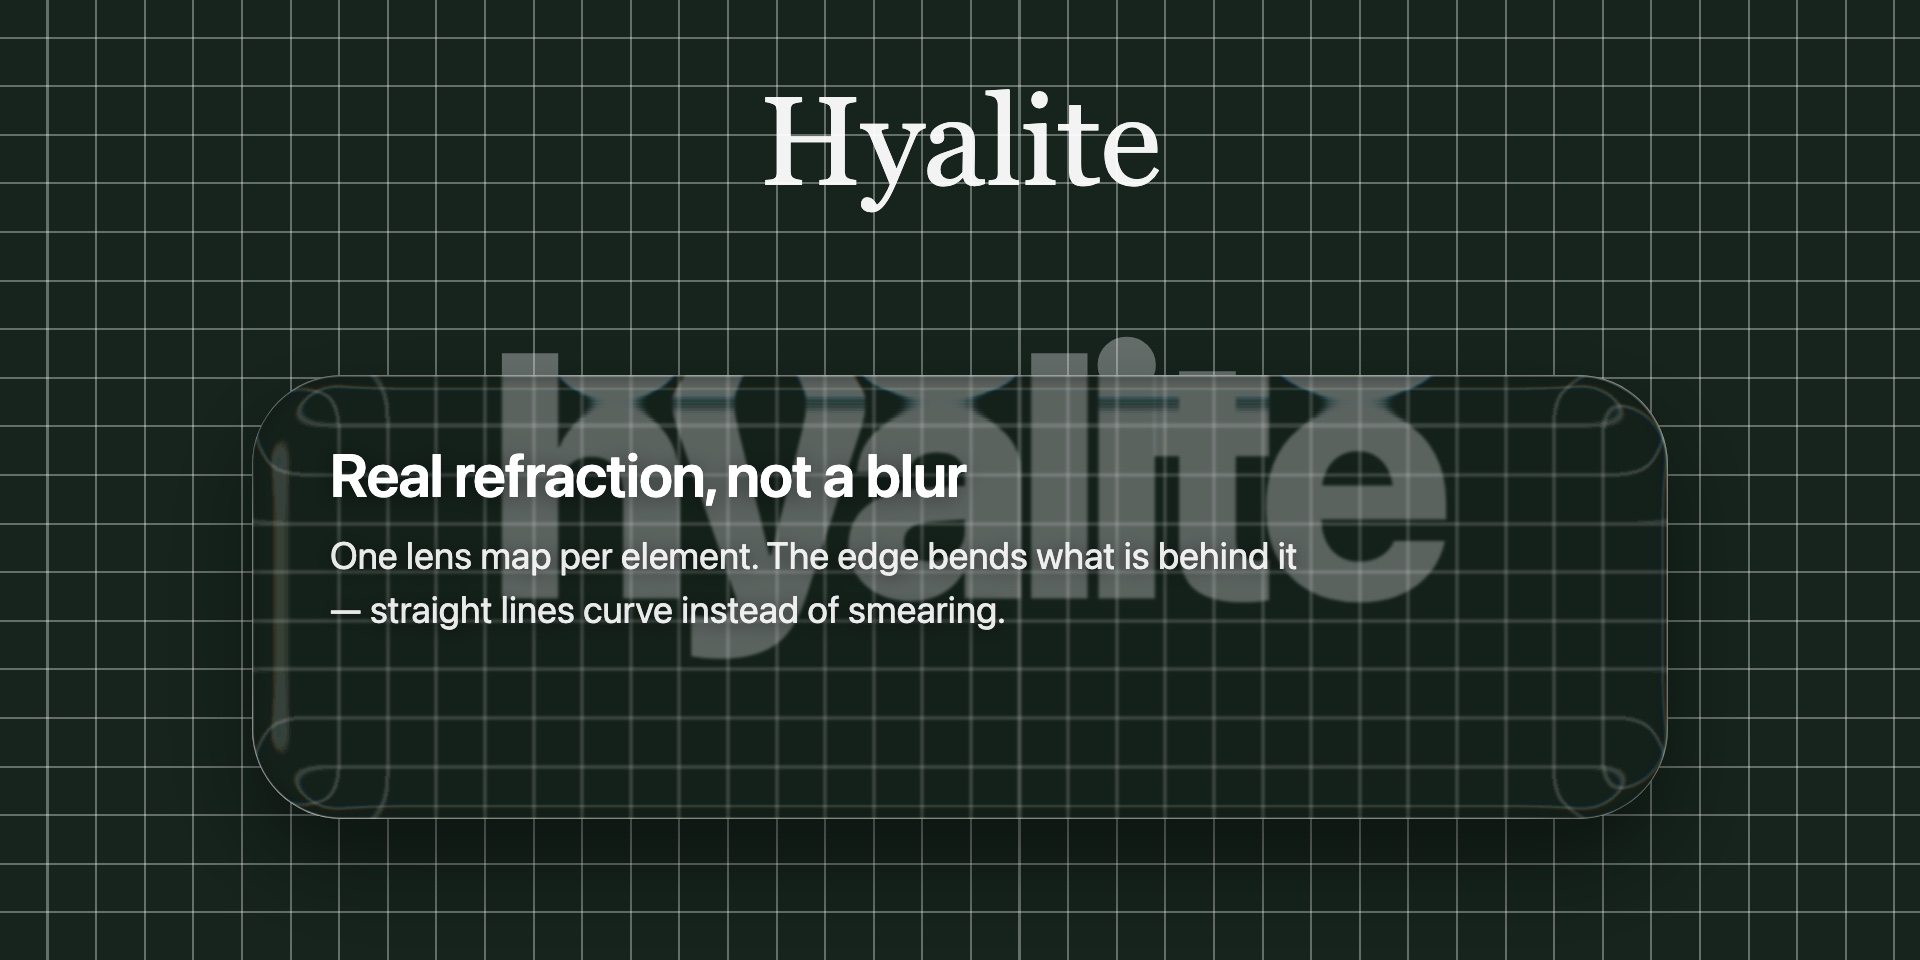
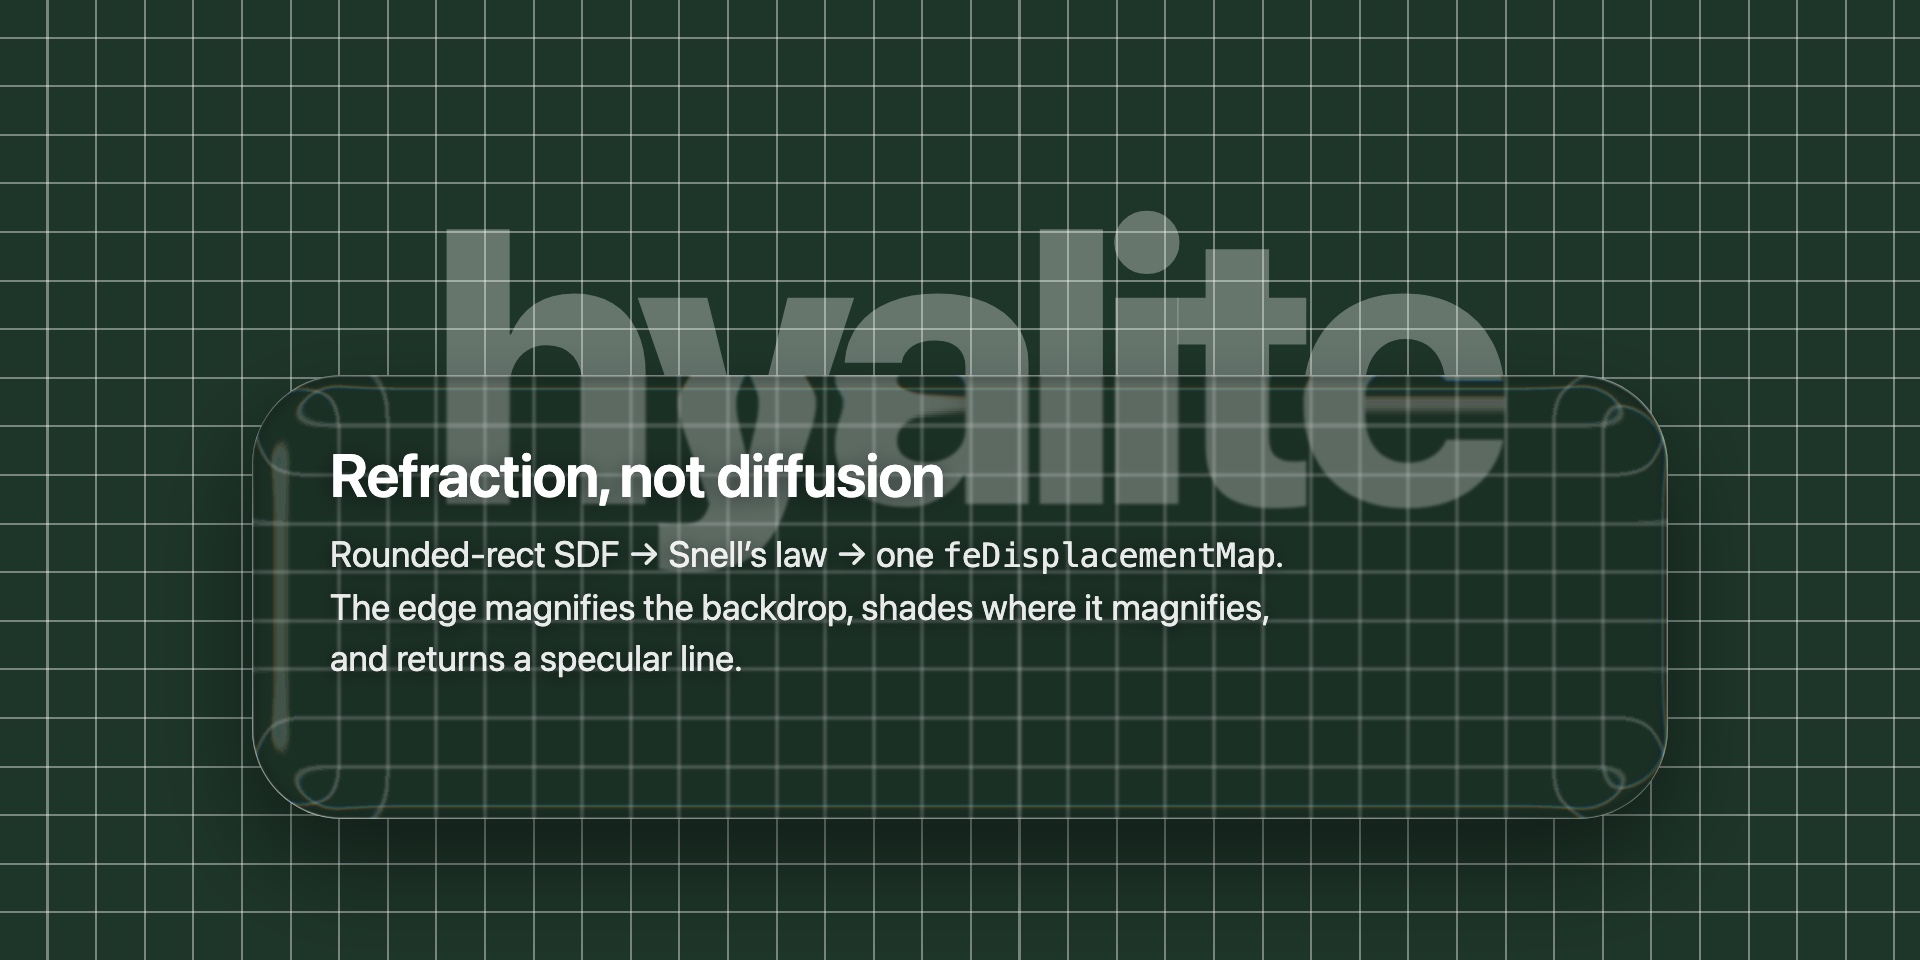
demo: narrow the playground HUD, one card figure, one list of pages
The HUD had no width of its own, so the button row stretched it across half the
viewport and over the A card. It is 236px now, with the labels on a fixed column
and the sliders flexible.

The README card is redrawn: the serif wordmark is gone, the big word sits so the
glass cuts it across the middle (straight above the edge, bent below), the ground
is lighter, and the copy names the actual chain instead of describing it. The old
playground shots are deleted rather than kept around, and the "Live:" line is folded
into the page list it was duplicating — which now also lists edge-lab.

Changed region(s): [[0.1562, 0.0938, 0.7812, 0.7188]]

diff --git a/demo/card.html b/demo/card.html
@@ -7,22 +7,19 @@
      at full width. Shot at deviceScaleFactor 1.5 → 1920×960, which stays under GitHub's 1 MB
      ceiling for a social image (2× lands around 1 MB and gets rejected). */
   html,body{margin:0;width:1280px;height:640px;overflow:hidden}
-  body{position:relative;background:#16241d;color:#f2efe6;
+  body{position:relative;background:#1e3529;color:#f2efe6;
        font:14px/1.45 system-ui,-apple-system,"Segoe UI",Roboto,sans-serif}
   /* A coarse grid: the whole point is that its straight lines come out *curved* behind the glass,
      so the ruling has to survive being looked at in a timeline thumbnail. */
   #grid{position:absolute;inset:0;
         background-image:
-          repeating-linear-gradient(0deg, transparent 0 31px, rgba(255,255,255,.34) 31px 32.4px),
-          repeating-linear-gradient(90deg, transparent 0 31px, rgba(255,255,255,.34) 31px 32.4px)}
-  .wordmark{position:absolute;left:0;right:0;top:52px;text-align:center;margin:0;
-            font:400 84px/1 Georgia,"Times New Roman",serif;letter-spacing:-.005em;
-            color:rgba(255,255,255,.95)}
+          repeating-linear-gradient(0deg, transparent 0 31px, rgba(255,255,255,.40) 31px 32.4px),
+          repeating-linear-gradient(90deg, transparent 0 31px, rgba(255,255,255,.40) 31px 32.4px)}
   /* The big word sits *behind* the glass on purpose: the part outside stays straight, the part
      under the lens bends. That contrast is the entire pitch, and it reads at thumbnail size. */
-  .behind{position:absolute;left:0;right:0;top:196px;text-align:center;margin:0;
-          font:800 232px/1 system-ui,-apple-system,"Helvetica Neue",sans-serif;
-          letter-spacing:-.06em;color:rgba(255,255,255,.34);white-space:nowrap}
+  .behind{position:absolute;left:0;right:0;top:108px;text-align:center;margin:0;
+          font:800 260px/1 system-ui,-apple-system,"Helvetica Neue",sans-serif;
+          letter-spacing:-.06em;color:rgba(255,255,255,.32);white-space:nowrap}
   .glass{position:absolute;left:50%;top:250px;transform:translateX(-50%);
          box-sizing:border-box;width:944px;height:296px;border-radius:60px;
          background:rgba(0,0,0,.10);
@@ -31,17 +28,17 @@
          box-shadow:var(--hyalite-edge,none), 0 30px 64px rgba(0,0,0,.42)}
   .glass h2{margin:0 0 14px;font:600 40px/1.1 system-ui,-apple-system,"Helvetica Neue",sans-serif;
             letter-spacing:-.02em;color:#fff;text-shadow:0 2px 14px rgba(0,0,0,.45)}
-  .glass p{margin:0;max-width:660px;font:400 25px/1.42 system-ui,-apple-system,sans-serif;
+  .glass p{margin:0;max-width:646px;font:400 24px/1.44 system-ui,-apple-system,sans-serif;
            color:rgba(255,255,255,.9);text-shadow:0 2px 12px rgba(0,0,0,.5)}
+  .glass code{font:500 .92em/1 ui-monospace,Menlo,monospace;letter-spacing:-.01em}
   .warn{position:absolute;left:16px;top:12px;font:600 20px/1.3 ui-monospace,monospace;color:#ffb4a2}
 </style></head>
 <body>
 <div id="grid"></div>
-<h1 class="wordmark">Hyalite</h1>
 <div class="behind">hyalite</div>
 <div class="glass" id="glass">
-  <h2>Real refraction, not a blur</h2>
-  <p>One lens map per element. The edge bends what is behind it — straight lines curve instead of smearing.</p>
+  <h2>Refraction, not diffusion</h2>
+  <p>Rounded-rect SDF → Snell’s law → one <code>feDisplacementMap</code>. The edge magnifies the backdrop, shades where it magnifies, and returns a specular line.</p>
 </div>
 <script>
 (() => {

diff --git a/demo/index.html b/demo/index.html
@@ -49,14 +49,15 @@
   .chip.on{background:rgba(255,255,255,.86);color:#1b1f1a}
 
   /* ── HUD ───────────────────────────────────────────────── */
-  .hud{position:absolute;z-index:20;left:18px;top:16px;display:flex;flex-direction:column;gap:7px;padding:12px 14px;border-radius:12px;
+  .hud{position:absolute;z-index:20;left:16px;top:14px;width:236px;display:flex;flex-direction:column;gap:6px;padding:11px 12px;border-radius:12px;
        background:rgba(0,0,0,.62);border:1px solid rgba(255,255,255,.12);font:12px/1.3 ui-monospace,Menlo,monospace;color:rgba(255,255,255,.85)}
   .hud h1{margin:0 0 2px;font:600 13px/1.2 system-ui,sans-serif}
-  .hud label{display:grid;grid-template-columns:82px 130px 52px;align-items:center;gap:8px}
-  .hud input[type=range]{width:130px;accent-color:#dfc174}
-  .hud .btns{display:flex;flex-wrap:wrap;gap:6px;margin-top:2px}
+  .hud label{display:grid;grid-template-columns:64px 1fr 40px;align-items:center;gap:7px}
+  .hud label>b{text-align:right;font-weight:400;opacity:.8}
+  .hud input[type=range]{width:100%;min-width:0;accent-color:#dfc174;margin:0}
+  .hud .btns{display:flex;flex-wrap:wrap;gap:5px;margin-top:4px}
   .hud a.btn{text-decoration:none;display:inline-block}
-  .hud button,.hud .file,.hud a.btn{font:inherit;padding:5px 9px;border-radius:8px;border:1px solid rgba(255,255,255,.18);background:rgba(255,255,255,.10);color:inherit;cursor:pointer}
+  .hud button,.hud .file,.hud a.btn{font:10.5px/1.2 ui-monospace,Menlo,monospace;white-space:nowrap;padding:4px 7px;border-radius:7px;border:1px solid rgba(255,255,255,.18);background:rgba(255,255,255,.10);color:inherit;cursor:pointer}
   .hud button:hover,.hud .file:hover,.hud a.btn:hover{background:rgba(255,255,255,.18)}
   .hud .hint{opacity:.6}
   .hud .warn{color:#ffb4a2}
@@ -66,8 +67,8 @@
     body{overflow:auto;height:auto;min-height:100vh}
     .big{position:static;font-size:22vw;margin:12px 0 4px}
     .slot{position:relative!important;left:auto!important;top:auto!important;width:min(380px,92vw);margin:18px auto 34px;cursor:default}
-    .hud{position:static;margin:12px}
-    .hud label{grid-template-columns:82px 1fr 52px}.hud input[type=range]{width:100%}
+    .hud{position:static;width:auto;margin:12px}
+    .hud label{grid-template-columns:64px 1fr 40px}.hud input[type=range]{width:100%}
   }
 </style></head>
 <body>

diff --git a/README.zh-CN.md b/README.zh-CN.md
@@ -6,15 +6,12 @@
 
 > 名字来自 hyalite，一种水一样透明、有玻璃光泽的蛋白石。念起来像 highlight，边上那道光正是这个引擎最讲究的东西。
 
-**在线：** [试验台](https://vii-cae.github.io/hyalite--liquid-glass/demo/index.html) · [回归用例](https://vii-cae.github.io/hyalite--liquid-glass/demo/cases.html) —— 用 Chromium 系浏览器打开。
-
 ![网格底上的一块玻璃卡片和一个大字：卡片外面的格线是直的，进到边缘就弯了。](demo/shots/card.jpg)
 
-<sub>就是出厂默认那一组，直接来自 <a href="demo/card.html"><code>demo/card.html</code></a>。</sub>
+三个页面都挂在 GitHub Pages 上 —— 用 Chromium 系浏览器打开，别的浏览器会退回普通模糊：
 
-- [`demo/index.html`](https://vii-cae.github.io/hyalite--liquid-glass/demo/index.html) 试验台：同一背景上普通模糊 vs hyalite，可拖、可交换，调倒角 / 厚度 / 模糊 / 色散 / 边缘光，切网格底或上传自己的照片。
-  ![网格底上的透镜：位移场在四角收成扇形，不折叠、不出棱。](demo/shots/playground-grid.jpg)
-
+- [`demo/index.html`](https://vii-cae.github.io/hyalite--liquid-glass/demo/index.html) 试验台：同一背景上普通模糊 vs hyalite，可拖、可交换，调那九个最影响观感的旋钮，切网格底或上传自己的照片。页面顶上那张图就是同一个引擎、同一组默认值。
+- [`demo/edge-lab.html`](https://vii-cae.github.io/hyalite--liquid-glass/demo/edge-lab.html) 剖面台：三种倒角剖面在同一组参数下并排，外加一台示波器画边缘 —— 位移、焦散推出来的亮度、以及两者合成的那条带符号剖面。
 - [`demo/cases.html`](https://vii-cae.github.io/hyalite--liquid-glass/demo/cases.html) 自检页：不对称圆角、椭圆圆角、CSS 相邻角规则、共用滤镜的双胞胎、尺寸分桶、把贴图读回来验四分之一对称、圆形上不出接缝的方向场、不随透镜放大的色散、从贴图蓝通道读出来的边缘明暗、会折叠的默认档确实走单段、流式长高的气泡，以及把封顶后的值真读回来核对（而不是「没抛异常就算过」）。
 - [`demo/run-cases.mjs`](https://github.com/VII-Cae/hyalite--liquid-glass/blob/main/demo/run-cases.mjs) **不是用来打开的页面**，是命令行脚本：把 `cases.html` 放进真正的 headless Chromium 里跑，打印红绿并带退出码。`npm test`，或者 `node demo/run-cases.mjs`（Node 22+，零依赖）。**故意用真实时间**——`--virtual-time-budget` 只快进定时器、不保证出帧，而其中两条用例等的正是帧里才会发生的事（`requestAnimationFrame` 的渐入、`ResizeObserver` 的回退），虚拟时间下它们会报假的失败。
 

diff --git a/README.md b/README.md
@@ -6,15 +6,12 @@ Hyalite treats an element as a slab of glass with a bevelled edge. For the eleme
 
 > Named after hyalite, the water-clear glassy opal. It also sounds like *highlight*, which is what the edge is about.
 
-**Live:** [playground](https://vii-cae.github.io/hyalite--liquid-glass/demo/index.html) · [regression cases](https://vii-cae.github.io/hyalite--liquid-glass/demo/cases.html) — open them in a Chromium browser.
-
 ![A glass card over a grid and a big word: outside the card the ruling stays straight, under its edge it curves.](demo/shots/card.jpg)
 
-<sub>The shipped defaults, straight out of <a href="demo/card.html"><code>demo/card.html</code></a>.</sub>
+Three pages, live on GitHub Pages — open them in a Chromium browser, everything else falls back to a plain blur:
 
-- [`demo/index.html`](https://vii-cae.github.io/hyalite--liquid-glass/demo/index.html) — plain blur vs hyalite on the same background: drag, swap, tune bevel / thickness / blur / dispersion / rim, switch to a grid or load your own photo.
-
-  ![The lens on a grid: the field fans into the corners, nothing folds, nothing creases.](demo/shots/playground-grid.jpg)
+- [`demo/index.html`](https://vii-cae.github.io/hyalite--liquid-glass/demo/index.html) — plain blur vs hyalite on the same background: drag, swap, tune the nine knobs that move the look most, switch to a grid or load your own photo. The card at the top of this page is the same engine on the same defaults.
+- [`demo/edge-lab.html`](https://vii-cae.github.io/hyalite--liquid-glass/demo/edge-lab.html) — the three bevel profiles side by side on one set of parameters, with an oscilloscope for the edge: displacement, the brightness the caustic implies, and the signed profile that comes out of them.
 - [`demo/cases.html`](https://vii-cae.github.io/hyalite--liquid-glass/demo/cases.html) — self-checking page: asymmetric, elliptical and overlap-rule radii, twins sharing a filter, size buckets, quarter-symmetry read back out of the map, a seam-free direction field on a circle, a dispersion that does not scale with the lens, the shade read out of the map's blue channel, the folding default staying one pass, a streaming bubble, clamps read back rather than assumed.
 - [`demo/run-cases.mjs`](https://github.com/VII-Cae/hyalite--liquid-glass/blob/main/demo/run-cases.mjs) — not a page to open: a command-line script that runs `cases.html` in a real headless Chromium and prints red/green with an exit code. `npm test`, or `node demo/run-cases.mjs` (Node 22+, no dependencies). Real time on purpose — `--virtual-time-budget` fast-forwards timers without promising frames, and two cases wait on a `requestAnimationFrame` ramp and a `ResizeObserver`, so under virtual time they report false failures.
 
